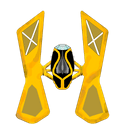
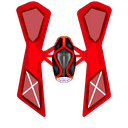
Système de powerups temporaires, nouveaux assets

diff --git a/sprites/spaceship.py b/sprites/spaceship.py
@@ -20,6 +20,7 @@ class Spaceship(pygame.sprite.Sprite):
         self.powerups = []
 
     def update(self, keys_pressed: list):
+
         self.speed = self.base_speed*self.game.speed_coef
         self.reload_time = self.base_reload_time/self.game.speed_coef
 
@@ -53,16 +54,16 @@ class Spaceship(pygame.sprite.Sprite):
 
         hit = False
         for powerup_collided in pygame.sprite.spritecollide(self, self.game.powerup_sprites, False):
-            powerups.add((powerup_collided.powerup_type, time.time()))
+            self.powerups.append((powerup_collided.powerup_type, time.time()))
             powerup_collided.kill()
             hit = True
             break
         if hit:
-            self.game.remove_health()
-            pygame.mixer.Sound.play(pygame.mixer.Sound(f'assets/sounds/player_hurt.ogg')) 
+            pygame.mixer.Sound.play(pygame.mixer.Sound(f'assets/sounds/powerup.ogg'))
+
 
         for powerup in self.powerups:
-            if (time.time() - powerup[1] > 30):
+            if (time.time() - powerup[1] > 15):
                 self.powerups.remove(powerup)
 
     def move(self):
@@ -74,7 +75,22 @@ class Spaceship(pygame.sprite.Sprite):
             self.rect.centerx += round(self.inertia)
 
     def shoot(self):
-        self.game.bullet_sprites.add(bullet.Bullet(
-            self.game, self.rect.centerx, self.rect.top, 0))
-        pygame.mixer.Sound.play(pygame.mixer.Sound(
-            f'assets/sounds/shoot_sound.ogg'))
+        bullet_type = 0
+        bullets = 1
+        for powerup in self.powerups:
+            if powerup[0] == 0:
+                bullet_type = 2
+            elif powerup[0] == 1:
+                bullets += 1
+        if bullets > 3:
+            bullets = 3
+        if bullets == 1:
+            self.game.bullet_sprites.add(bullet.Bullet(self.game, self.rect.centerx - 10, self.rect.top, bullet_type))
+        elif bullets == 2:
+            self.game.bullet_sprites.add(bullet.Bullet(self.game, self.rect.centerx - 15, self.rect.top, bullet_type))
+            self.game.bullet_sprites.add(bullet.Bullet(self.game, self.rect.centerx + 15, self.rect.top, bullet_type))
+        elif bullets == 3:
+            self.game.bullet_sprites.add(bullet.Bullet(self.game, self.rect.centerx - 15, self.rect.top, bullet_type))
+            self.game.bullet_sprites.add(bullet.Bullet(self.game, self.rect.centerx, self.rect.top, bullet_type))
+            self.game.bullet_sprites.add(bullet.Bullet(self.game, self.rect.centerx + 15, self.rect.top, bullet_type))
+        pygame.mixer.Sound.play(pygame.mixer.Sound(f'assets/sounds/shoot_sound.ogg'))

diff --git a/sprites/bullet.py b/sprites/bullet.py
@@ -10,7 +10,8 @@ class Bullet(pygame.sprite.Sprite):
         self.game = game
         self.level_manager = level_manager
         self.bullet_type = bullet_type
-        if self.bullet_type == 0:
+        self.enemies_hit = []
+        if self.bullet_type == 0 or self.bullet_type == 2:
             self.image, self.rect = game.images["bullet"]
             self.image = self.image.copy()
             self.rect = self.rect.copy()
@@ -28,17 +29,17 @@ class Bullet(pygame.sprite.Sprite):
             self.rect.centerx, self.rect.top = start_x, start_y-30
 
     def update(self):
-        if self.bullet_type == 0:
+        if self.bullet_type == 0 or self.bullet_type == 2:
             self.rect.top -= 10
             if self.rect.top < 0:
                 self.kill()
-            hit = False
             for enemy in pygame.sprite.spritecollide(self, self.game.enemy_sprites, False):
-                enemy.hit()
-                hit = True
-                break
-            if hit:
-                self.kill()
+                if (enemy not in self.enemies_hit):
+                    enemy.hit()
+                    self.enemies_hit.append(enemy)
+                    if self.bullet_type == 0:
+                        self.kill()
+                        break
         elif self.bullet_type == 1:
             self.rect.y += 10
             if self.rect.bottom > screenutils.get_heigth():

diff --git a/sprites/enemy.py b/sprites/enemy.py
@@ -28,15 +28,14 @@ class Enemy(pygame.sprite.Sprite):
     def hit(self, power=1):
         self.life -= power
         if self.life <= 0:
-            #if randint(0, 10) <= self.score:
-            if True:
-                self.game.powerup_sprites.add(powerup.Powerup(self.game, 0, self.rect.center))
+            if randint(0, 25) <= self.score:
+                self.game.powerup_sprites.add(powerup.Powerup(self.game, randint(0, 1), self.rect.center))
             self.delete()
         else:
             pygame.mixer.Sound.play(pygame.mixer.Sound(f'assets/sounds/alien_degat{randint(1, 5)}.ogg'))
 
     def delete(self):
-        self.game.score += 1
+        self.game.score += self.score
         self.level_manager.on_enemy_deleted()
         self.kill()
         pygame.mixer.Sound.play(self.game.alien_death_sounds[randint(0, len(self.game.alien_death_sounds)-1)])

diff --git a/sprites/powerup.py b/sprites/powerup.py
@@ -11,10 +11,7 @@ class Powerup(pygame.sprite.Sprite):
         pygame.sprite.Sprite.__init__(self)  # Appel du constructeur de Sprite
         self.game = game
         self.powerup_type = powerup_type
-        if powerup_type == 0:
-            self.image, self.rect = fileutils.load_image('gati.jpg')
-        elif powerup_type == 1:
-            self.image, self.rect = fileutils.load_image('gato.jpg')
+        self.image, self.rect = fileutils.load_image('powerup.png')
         self.image = pygame.transform.scale(self.image, self.rect.size)
         self.rect.center = pos
 
